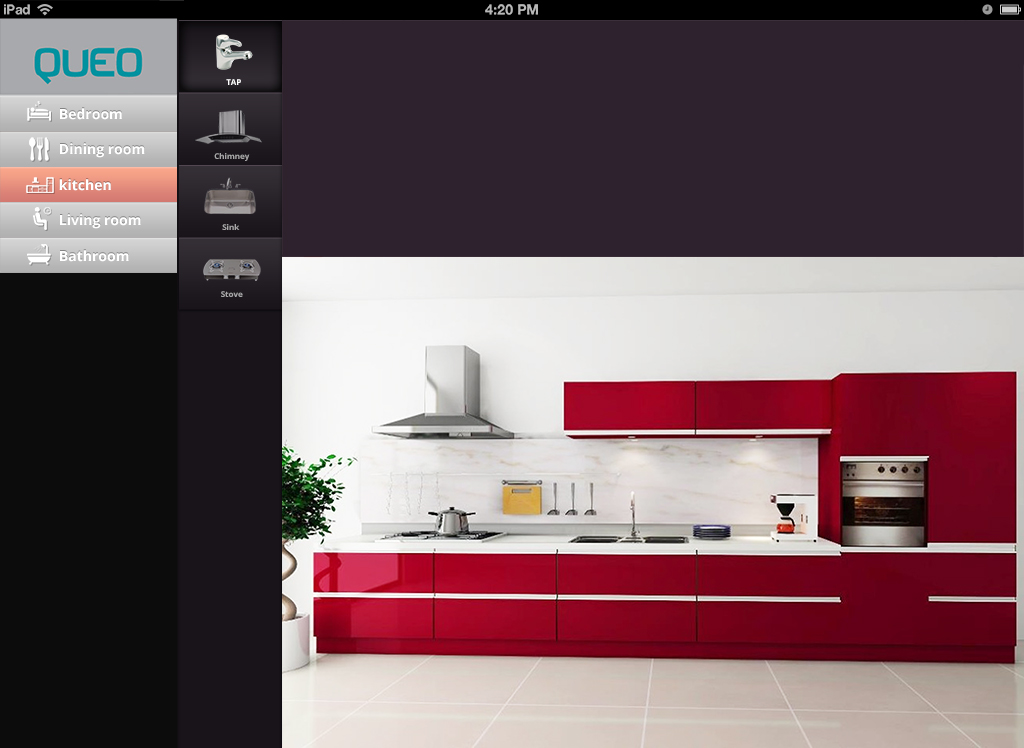
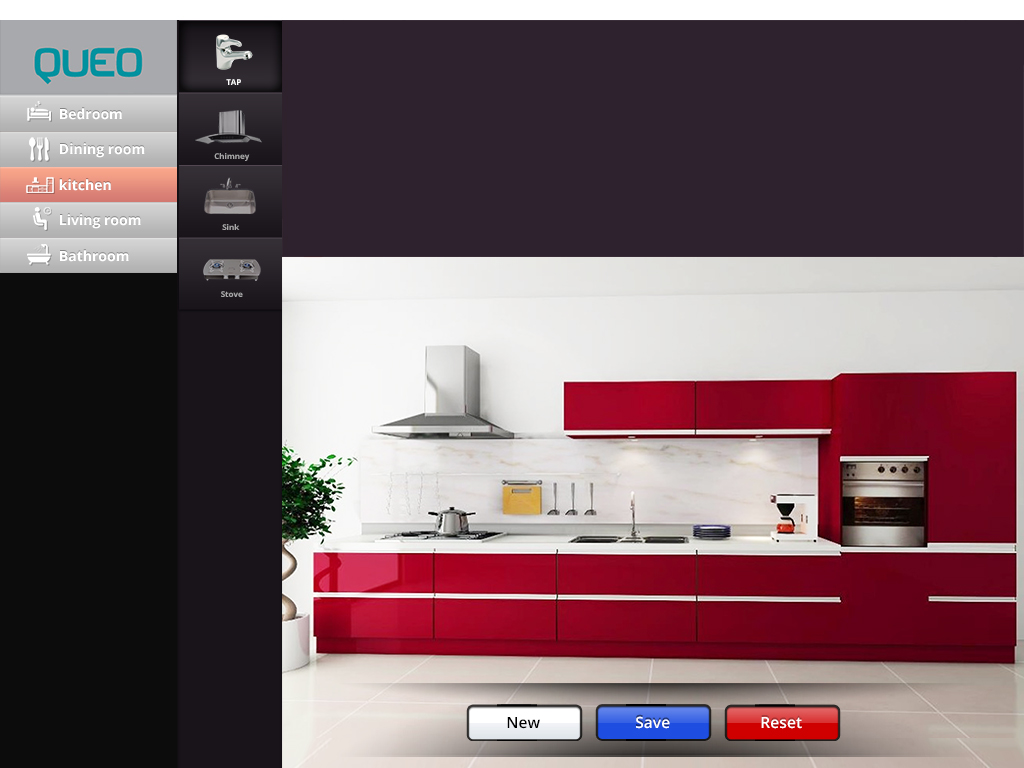
final

diff --git a/www/collection.html b/www/collection.html
@@ -7,7 +7,7 @@
 <script src="jquery-ui.js"></script>
 <script src="jquery.ui.touch-punch.min.js"></script>
 	<style>*{margin: 0;padding: 0;font-family: Arial, "Helvetica Neue", Helvetica, sans-serif;}
-div.main2{ position: relative;background: url(images/bg.jpg);width: 1024px; height: 768px;margin: 0 auto;}
+div.main2{ position: relative;background: url(images/bg2.jpg);width: 1024px; height: 768px;margin: 0 auto;}
 .taps {
 	display: block;width: 600px;padding: 30px   0;margin: 0 0 0 370px;
 } li img{height: 80px;}
@@ -57,8 +57,7 @@ $('.images').droppable({
 </head>
 <body>
 	<div class="main2 ">
-	<a href="collection.html" class="collection"><img src="images/collection.jpg" alt=""></a>
-		<div class="taps ">
+		<!-- <div class="taps ">
 			<h2>TAPS</h2> 
 			<ul class="images" style="display: block; height: 196px;">
 			<li class="ui-widget-content ui-corner-tr"><img src="images/1.jpg" alt=""></li>
@@ -71,11 +70,11 @@ $('.images').droppable({
 			<li class="ui-widget-content ui-corner-tr"><img src="images/3.jpg" alt=""></li>
 			<li class="ui-widget-content ui-corner-tr"><img src="images/2.jpg" alt=""></li>
 			<li class="ui-widget-content ui-corner-tr"><img src="images/1.jpg" alt=""></li>
-
+		
 		</ul>
-	 <div class="asd" style=" width: 710px;height: 400px; margin-top: 9px;position: absolute;margin: 0 0 0 -88px;padding: 90px 0 0 30px;
-"> </div>
-	</div>
+			 <div class="asd" style=" width: 710px;height: 400px; margin-top: 9px;position: absolute;margin: 0 0 0 -88px;padding: 90px 0 0 30px;
+		"> </div>
+			</div> -->
 	</div> 
 </body>
 </html>
